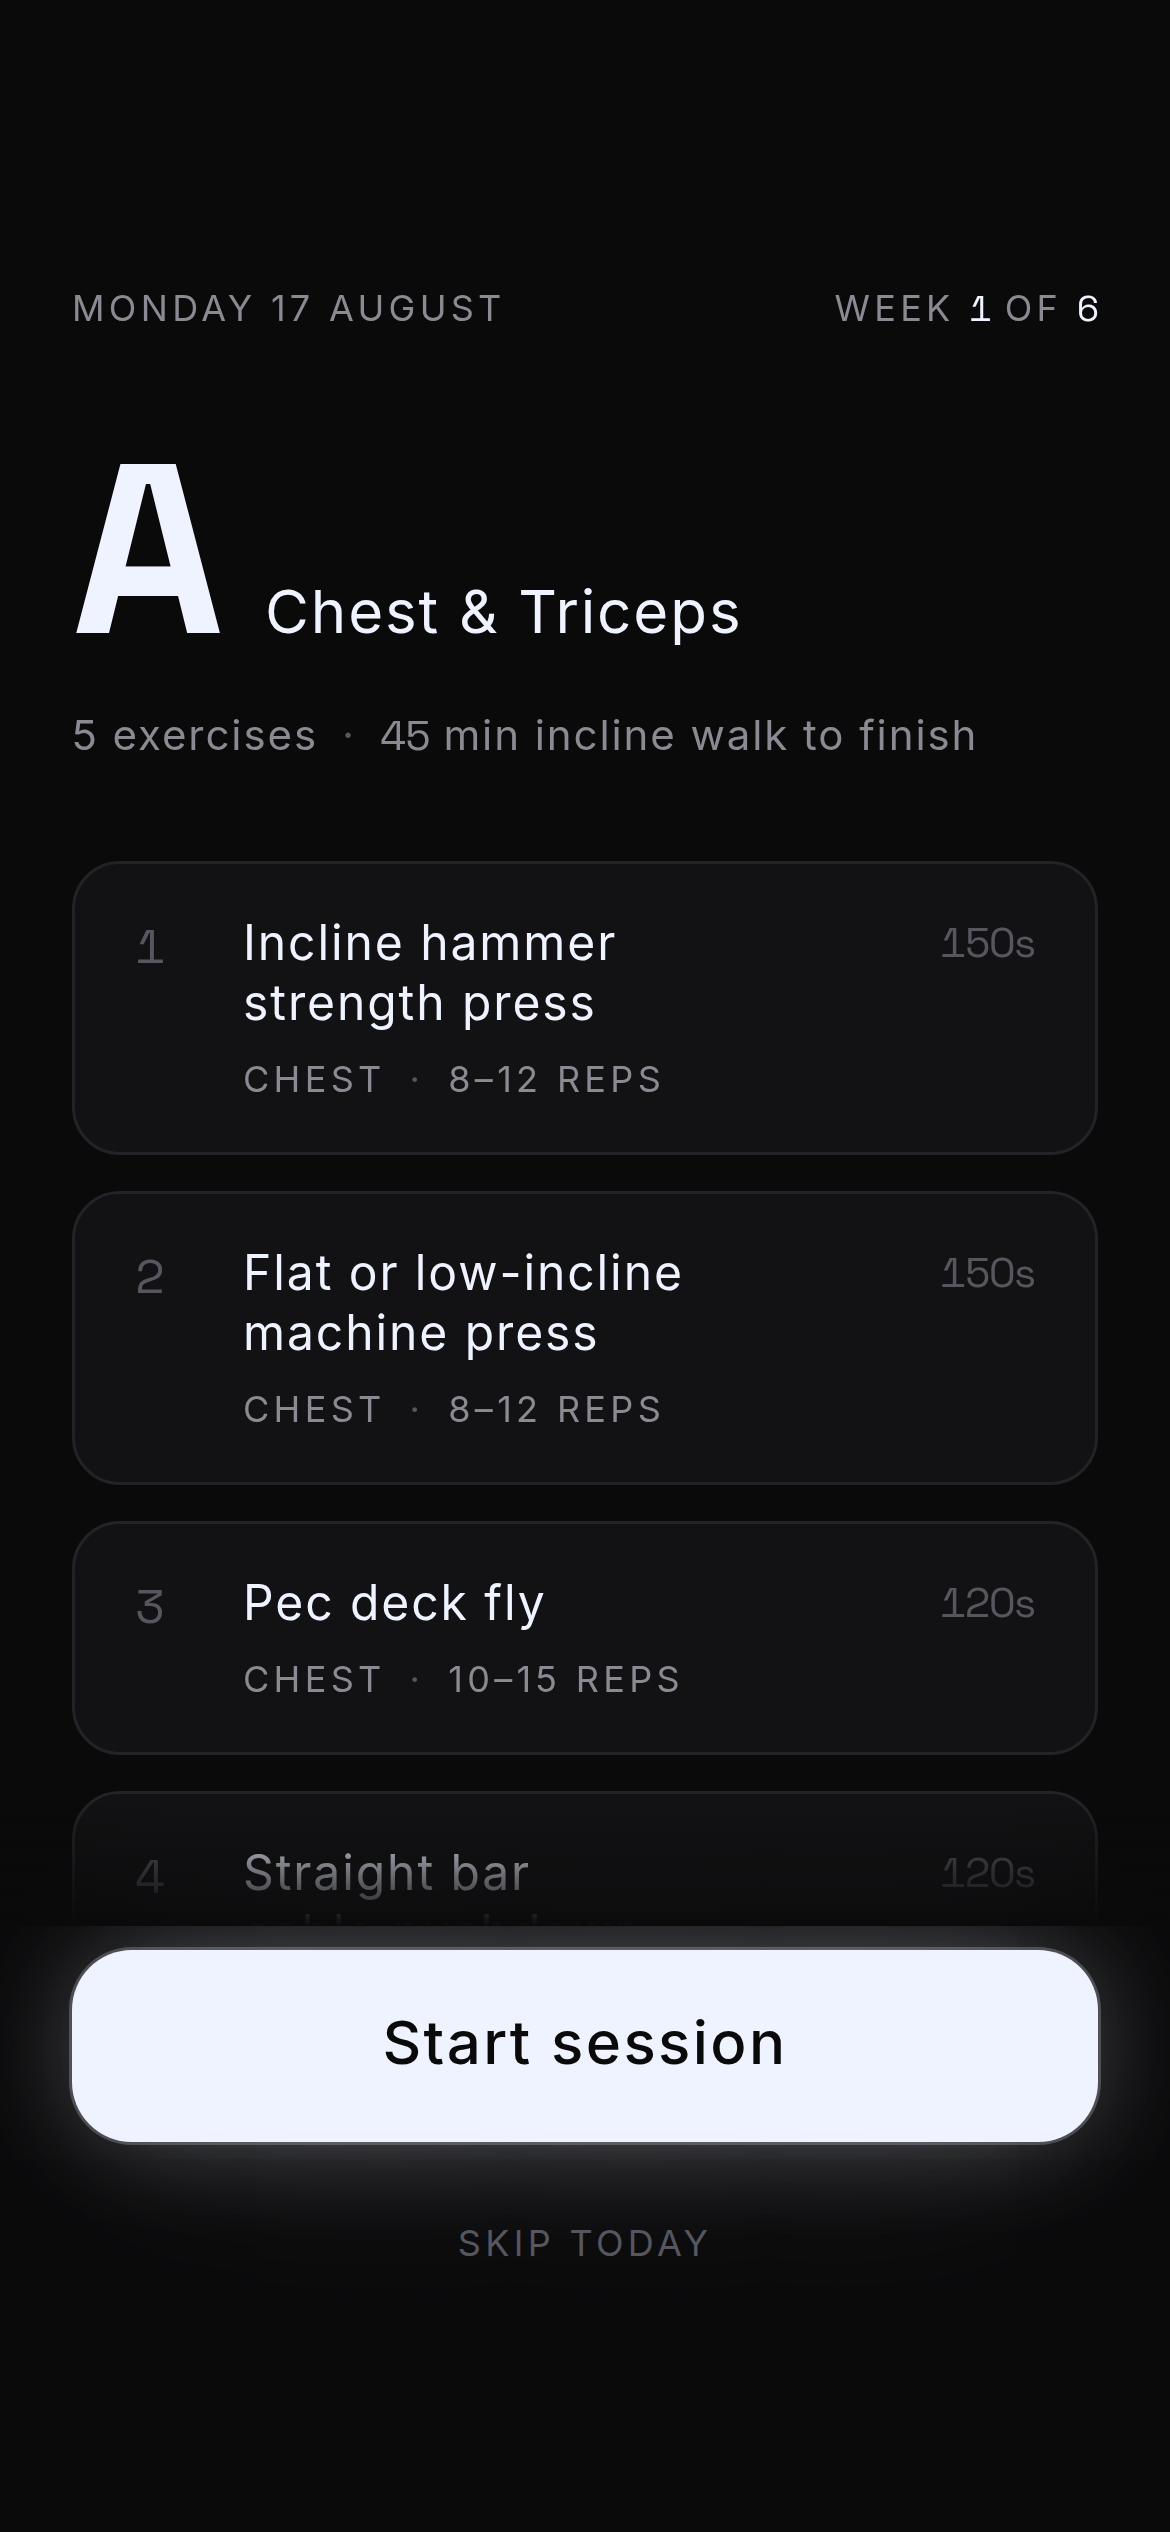
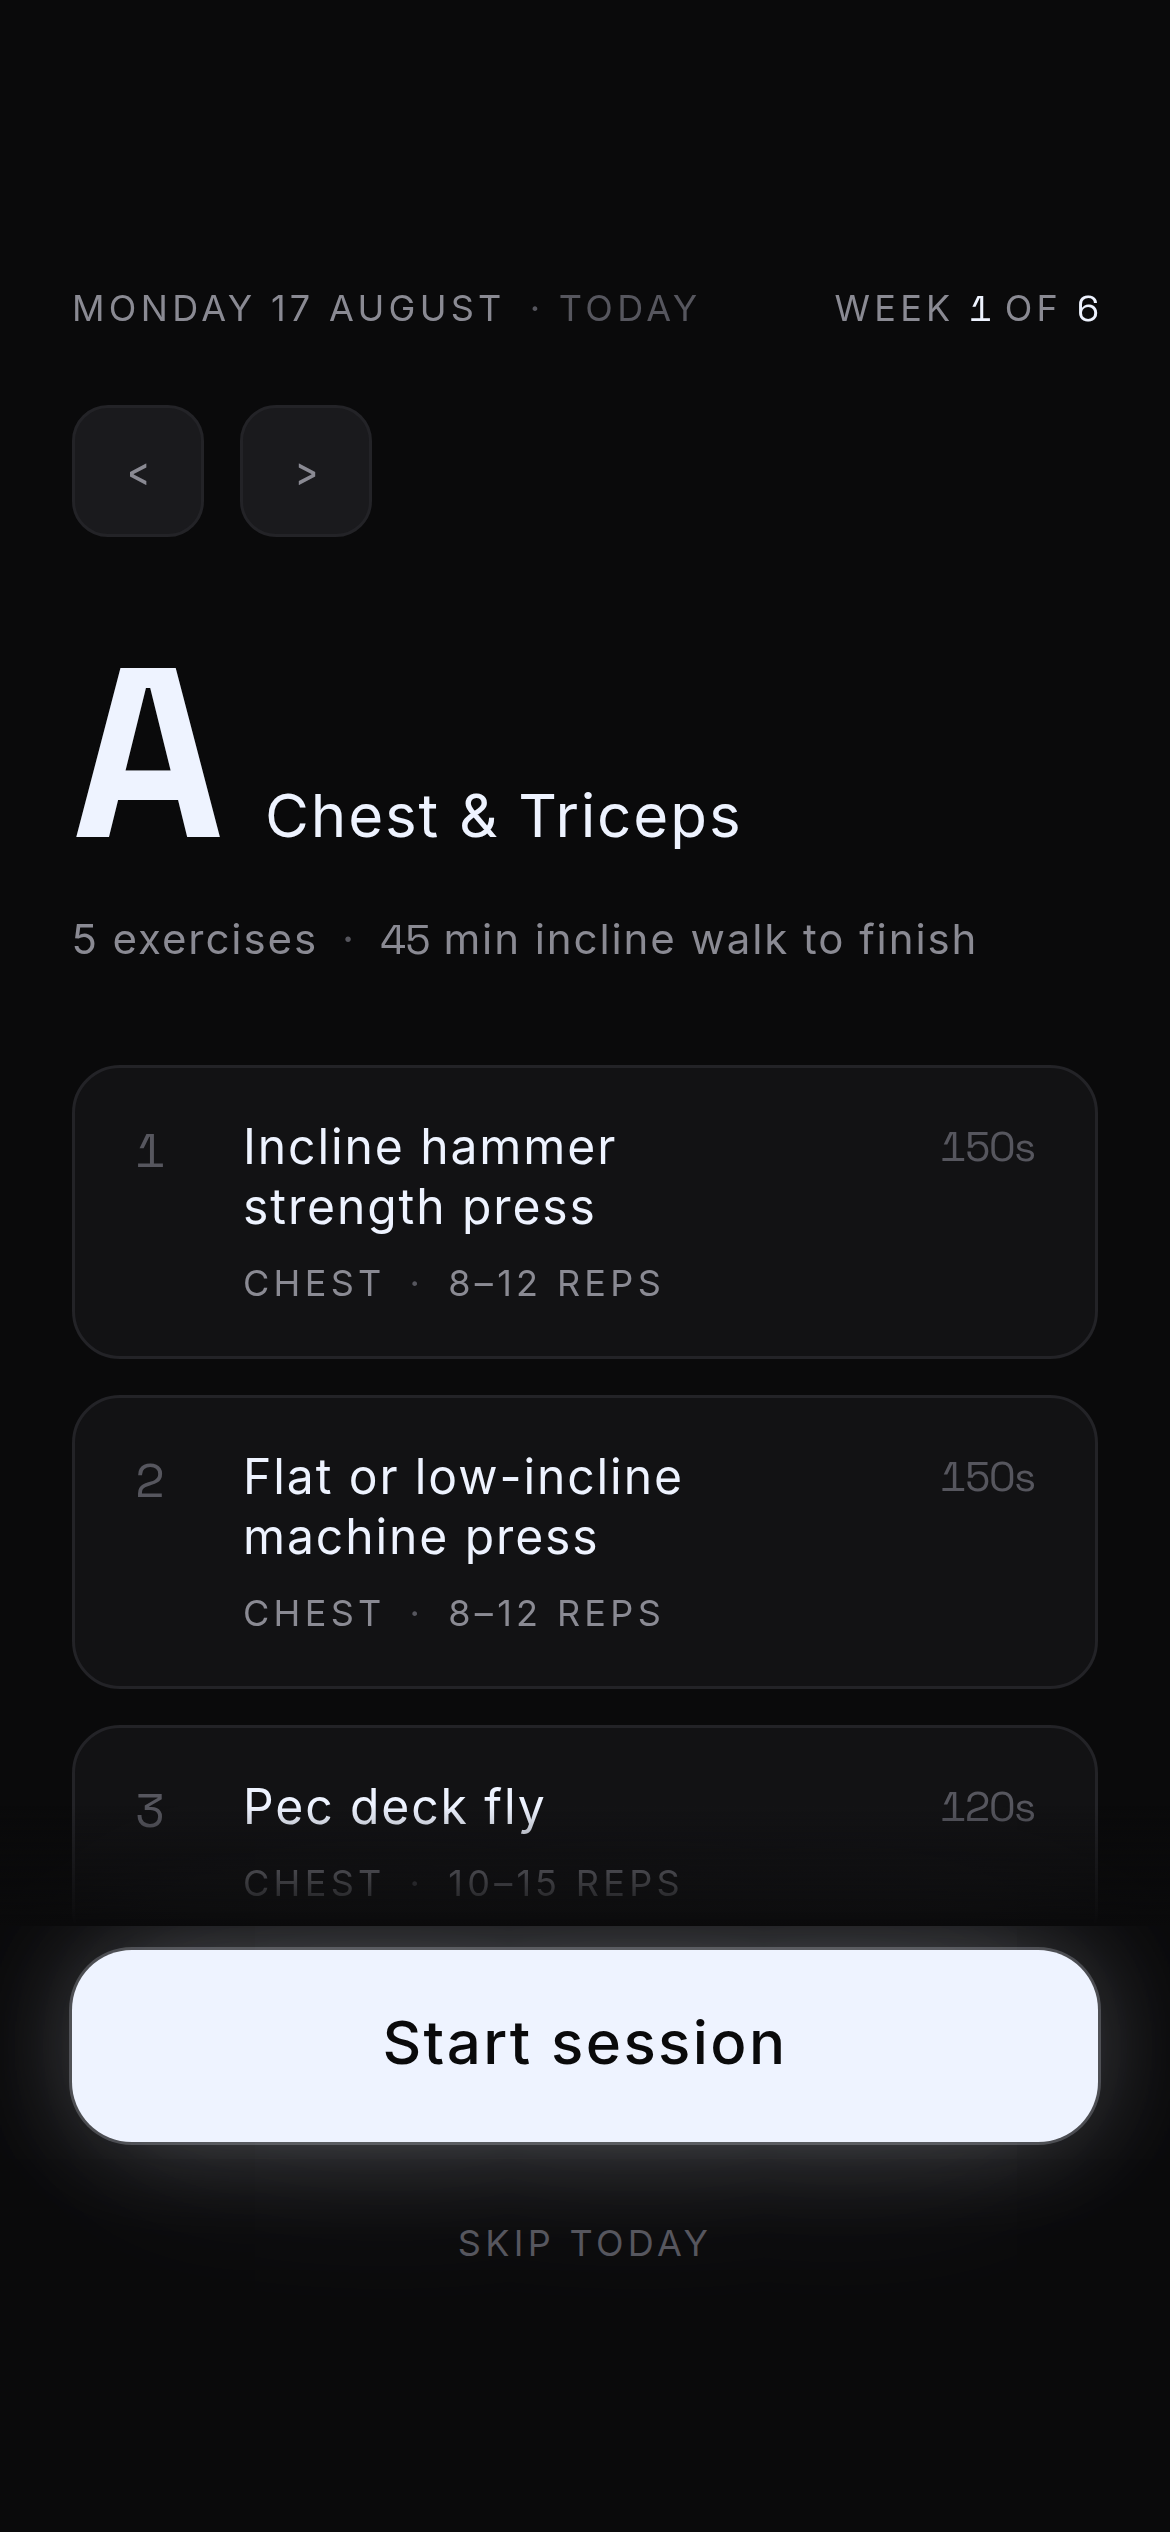
Let the home screen browse any day, back and forwards
Chevrons or a horizontal swipe step through the calendar in both directions;
the action bar swaps to "Back to today" while browsing. Read-only by design:
Start, Resume and Skip render only on the real today, so viewing Thursday
can never create Thursday's session on a Tuesday. Past days show their
verdict — completed with set count and cardio, skipped, unfinished, or not
trained — and the week-of-block indicator follows the viewed date. A swipe
that is mostly vertical is list scrolling and never changes the day.

Browser-proven alongside the existing gates: forward to Tuesday's Day B with
no Start button, back to Sunday's rest day, and Back to today restoring the
live screen. 142 tests, build, and all 17 browser checks green. Version
marker bumped to Phase 4.1.

Claude-Session: https://claude.ai/code/session_01CAbP54sosu1znVWxFPtxP3

diff --git a/src/features/home/HomeScreen.tsx b/src/features/home/HomeScreen.tsx
@@ -1,4 +1,4 @@
-import { useState } from 'react'
+import { useRef, useState } from 'react'
 import { useLiveQuery } from 'dexie-react-hooks'
 
 import { Button } from '../../components/Button'
@@ -6,30 +6,136 @@ import { Card } from '../../components/Card'
 import { Screen } from '../../components/Screen'
 import { getTodayView, type TodayView } from '../../db/queries'
 import { skipToday, startSession, undoSkip } from '../../db/mutations'
-import { formatLongDate } from '../../lib/date'
+import { WEEKDAY_NAMES, addDays, formatLongDate, weekdayOf } from '../../lib/date'
 import { navigate } from '../../lib/router'
 import { useToday } from '../../lib/useToday'
 import { APP_VERSION } from '../../lib/version'
 
 /**
- * Home / Today (BRIEF.md Part 6).
+ * Home / Today (BRIEF.md Part 6), extended with day browsing: chevrons or a
+ * horizontal swipe step through the calendar in both directions, so any day's
+ * plan can be looked at from any other day.
  *
- * Everything on this screen is read live from the database — change a template
- * in Settings and this re-renders without a reload.
+ * Browsing is strictly read-only. Start, Resume and Skip exist only on the
+ * real today — a browsed date offers nothing but "Back to today" — so looking
+ * at Thursday can never accidentally create Thursday's session on a Tuesday.
  */
 export function HomeScreen() {
-  const date = useToday()
+  const today = useToday()
+  /** Days away from today; 0 is home. Kept relative so midnight re-anchors. */
+  const [offset, setOffset] = useState(0)
+  const date = addDays(today, offset)
+  const isToday = offset === 0
+
   const view = useLiveQuery(() => getTodayView(date), [date])
 
-  // First paint before IndexedDB answers. Deliberately blank rather than a
-  // spinner: the read resolves in single-digit milliseconds, and a spinner that
-  // flashes for one frame is worse than nothing.
+  // Horizontal swipe steps days; a mostly-vertical drag is list scrolling and
+  // must never change the day.
+  const touchStart = useRef<{ x: number; y: number } | null>(null)
+  function onTouchStart(event: React.TouchEvent) {
+    const t = event.touches[0]
+    touchStart.current = t ? { x: t.clientX, y: t.clientY } : null
+  }
+  function onTouchEnd(event: React.TouchEvent) {
+    const start = touchStart.current
+    touchStart.current = null
+    const end = event.changedTouches[0]
+    if (!start || !end) return
+    const dx = end.clientX - start.x
+    const dy = end.clientY - start.y
+    if (Math.abs(dx) < 60 || Math.abs(dx) < 2 * Math.abs(dy)) return
+    setOffset(offset + (dx < 0 ? 1 : -1))
+  }
+
   if (!view) return <Screen>{null}</Screen>
 
-  return view.template ? <TrainingDay view={view} /> : <RestDay view={view} />
+  const nav = { offset, isToday, setOffset }
+  return (
+    <div onTouchStart={onTouchStart} onTouchEnd={onTouchEnd} className="contents">
+      {view.template ? (
+        <TrainingDay view={view} today={today} nav={nav} />
+      ) : (
+        <RestDay view={view} nav={nav} />
+      )}
+    </div>
+  )
 }
 
-function TrainingDay({ view }: { view: TodayView }) {
+interface DayNavState {
+  offset: number
+  isToday: boolean
+  setOffset: (offset: number) => void
+}
+
+function DayNav({ nav }: { nav: DayNavState }) {
+  return (
+    <div className="mt-6 flex items-center gap-3">
+      <button
+        type="button"
+        aria-label="Previous day"
+        onClick={() => nav.setOffset(nav.offset - 1)}
+        className="num min-h-touch-min min-w-touch-min rounded-md border border-border bg-surface-raised text-base text-text-secondary active:bg-surface"
+      >
+        ‹
+      </button>
+      <button
+        type="button"
+        aria-label="Next day"
+        onClick={() => nav.setOffset(nav.offset + 1)}
+        className="num min-h-touch-min min-w-touch-min rounded-md border border-border bg-surface-raised text-base text-text-secondary active:bg-surface"
+      >
+        ›
+      </button>
+      {/* Returning home lives in the action bar, in the thumb zone — one
+          "Back to today", not two. */}
+    </div>
+  )
+}
+
+/** One line saying what became of a browsed day. Today speaks through the
+ * action area instead, and the future needs no verdict. */
+function DayStatus({ view, today }: { view: TodayView; today: string }) {
+  if (view.date >= today) return null
+
+  const { session } = view
+  const verdict =
+    session?.status === 'completed' ? (
+      <>
+        Completed
+        <span className="mx-2 text-text-muted">·</span>
+        <span className="num text-text">{view.setsLoggedToday}</span> sets
+        {session.cardio ? (
+          <>
+            <span className="mx-2 text-text-muted">·</span>
+            <span className="num text-text">{session.cardio.durationMin}</span> min
+            cardio
+          </>
+        ) : null}
+      </>
+    ) : session?.status === 'skipped' ? (
+      'Skipped'
+    ) : session?.status === 'in_progress' ? (
+      'Unfinished'
+    ) : (
+      'Not trained'
+    )
+
+  return (
+    <p className="mt-3 text-xs tracking-wider text-text-secondary uppercase">
+      {verdict}
+    </p>
+  )
+}
+
+function TrainingDay({
+  view,
+  today,
+  nav,
+}: {
+  view: TodayView
+  today: string
+  nav: DayNavState
+}) {
   const { template, exercises, position, streak, date, session, unfinishedSession } = view
   const [starting, setStarting] = useState(false)
   if (!template) return null
@@ -59,7 +165,11 @@ function TrainingDay({ view }: { view: TodayView }) {
   return (
     <Screen
       action={
-        completed ? (
+        !nav.isToday ? (
+          <Button variant="quiet" onClick={() => nav.setOffset(0)}>
+            Back to today
+          </Button>
+        ) : completed ? (
           <p className="text-center text-xs tracking-wider text-text-secondary uppercase">
             Session complete
             <span className="mx-2 text-text-muted">·</span>
@@ -107,12 +217,15 @@ function TrainingDay({ view }: { view: TodayView }) {
         )
       }
     >
-      <Header date={date} position={position} />
+      <Header date={date} position={position} isToday={nav.isToday} />
+      <DayNav nav={nav} />
 
       <div className="mt-8 flex items-baseline gap-4">
         <span className="num text-5xl font-bold text-accent">{template.letter}</span>
         <span className="text-lg text-text">{template.name}</span>
       </div>
+
+      <DayStatus view={view} today={today} />
 
       <p className="mt-3 text-sm text-text-secondary">
         {exercises.length} exercises
@@ -146,32 +259,40 @@ function TrainingDay({ view }: { view: TodayView }) {
         ))}
       </ul>
 
-      <Streak streak={streak} />
+      {nav.isToday ? <Streak streak={streak} /> : null}
     </Screen>
   )
 }
 
-function RestDay({ view }: { view: TodayView }) {
+function RestDay({ view, nav }: { view: TodayView; nav: DayNavState }) {
   const { nextTemplate, unfinishedSession } = view
+  const nextLabel = nav.isToday
+    ? 'Tomorrow'
+    : (WEEKDAY_NAMES[weekdayOf(addDays(view.date, 1))] ?? 'Next day')
 
   return (
     <Screen
       action={
-        unfinishedSession ? (
+        !nav.isToday ? (
+          <Button variant="quiet" onClick={() => nav.setOffset(0)}>
+            Back to today
+          </Button>
+        ) : unfinishedSession ? (
           <Button onClick={() => navigate('/session')}>
             Finish previous session
           </Button>
         ) : undefined
       }
     >
-      <Header date={view.date} position={view.position} />
+      <Header date={view.date} position={view.position} isToday={nav.isToday} />
+      <DayNav nav={nav} />
 
       {/* Centred in the space rather than stranded at the top — a rest day
           should look composed, not like a screen that failed to load. */}
       <div className="flex flex-1 flex-col justify-center">
         <p className="text-2xl text-text">Rest day</p>
         <p className="mt-4 max-w-measure-base text-sm leading-relaxed text-text-secondary">
-          Nothing scheduled today.
+          Nothing scheduled{nav.isToday ? ' today' : ''}.
         </p>
 
         {nextTemplate ? (
@@ -181,7 +302,7 @@ function RestDay({ view }: { view: TodayView }) {
             </span>
             <div>
               <p className="text-xs tracking-wider text-text-secondary uppercase">
-                Tomorrow
+                {nextLabel}
               </p>
               <p className="mt-1 text-base text-text">{nextTemplate.name}</p>
             </div>
@@ -189,7 +310,7 @@ function RestDay({ view }: { view: TodayView }) {
         ) : null}
       </div>
 
-      <Streak streak={view.streak} />
+      {nav.isToday ? <Streak streak={view.streak} /> : null}
     </Screen>
   )
 }
@@ -197,14 +318,19 @@ function RestDay({ view }: { view: TodayView }) {
 function Header({
   date,
   position,
+  isToday,
 }: {
   date: string
   position: TodayView['position']
+  isToday: boolean
 }) {
   return (
     <header className="flex items-baseline justify-between gap-4">
       <p className="text-xs tracking-wider text-text-secondary uppercase">
         {formatLongDate(date)}
+        {isToday ? (
+          <span className="ml-2 text-text-muted">· Today</span>
+        ) : null}
       </p>
       {position ? (
         <p className="shrink-0 text-xs tracking-wider text-text-secondary uppercase">

diff --git a/scripts/prove-resume.ts b/scripts/prove-resume.ts
@@ -91,8 +91,38 @@ async function main(): Promise<void> {
   }
 
   try {
-    console.log('\nCHECK-IN — the soreness questions come before any lifting')
+    console.log('\nBROWSING — any day is reachable, back and forwards, read-only')
     const page = await openApp()
+
+    // Frozen on Monday: one step forward is Tuesday, Day B.
+    await page.getByRole('button', { name: 'Next day' }).click()
+    await page.getByText('Legs').waitFor()
+    check(
+      'forward to Tuesday shows Day B with no Start button',
+      (await page.getByText('Tuesday 18 August').count()) === 1 &&
+        (await page.getByRole('button', { name: 'Start session' }).count()) === 0,
+    )
+    check(
+      'a browsed day offers Back to today instead',
+      (await page.getByRole('button', { name: 'Back to today' }).count()) >= 1,
+    )
+    await shot(page, 'home-browse-forward')
+
+    // Back two steps lands on Sunday — the rest day.
+    await page.getByRole('button', { name: 'Previous day' }).click()
+    await page.getByRole('button', { name: 'Previous day' }).click()
+    await page.getByText('Rest day').waitFor()
+    check(
+      'backwards reaches Sunday’s rest day',
+      (await page.getByText('Sunday 16 August').count()) === 1,
+    )
+
+    await page.getByRole('button', { name: 'Back to today' }).first().click()
+    await page.getByText(/· Today/).waitFor()
+    await page.getByRole('button', { name: 'Start session' }).waitFor()
+    check('Back to today restores the live day with its Start button', true)
+
+    console.log('\nCHECK-IN — the soreness questions come before any lifting')
     await page.getByRole('button', { name: 'Start session' }).click()
 
     await page.getByText('How sore is your chest').waitFor()

diff --git a/src/lib/version.ts b/src/lib/version.ts
@@ -5,4 +5,4 @@
  * Phase 7 service worker adds another cache layer. Moves into the Settings
  * screen when that exists.
  */
-export const APP_VERSION = 'Phase 4'
+export const APP_VERSION = 'Phase 4.1'

diff --git a/PLAN.md b/PLAN.md
@@ -392,6 +392,17 @@ screenshots/feedback-*.png · session-recommendation.png
   answer. Standing offer: say the word to switch any day to the full per-muscle
   list — it is data, not code.
 
+### Interlude: day browsing (product owner request, post-Phase 4)
+
+The home screen now steps through the calendar — chevrons or a horizontal
+swipe, both directions, any distance — with "Back to today" in the action
+bar. Browsing is strictly read-only: Start, Resume and Skip exist only on
+the real today, so looking at Thursday can never create Thursday's session
+early. Past days show their verdict (completed with set count and cardio,
+skipped, unfinished, or not trained); the week indicator follows the viewed
+date. Verified in the browser proof: forward to Day B, back to the rest day,
+and home again, with the Start button only ever on today.
+
 ### Phase 3+4 review, and what it changed
 
 The independent review recomputed the whole engine against the brief —
